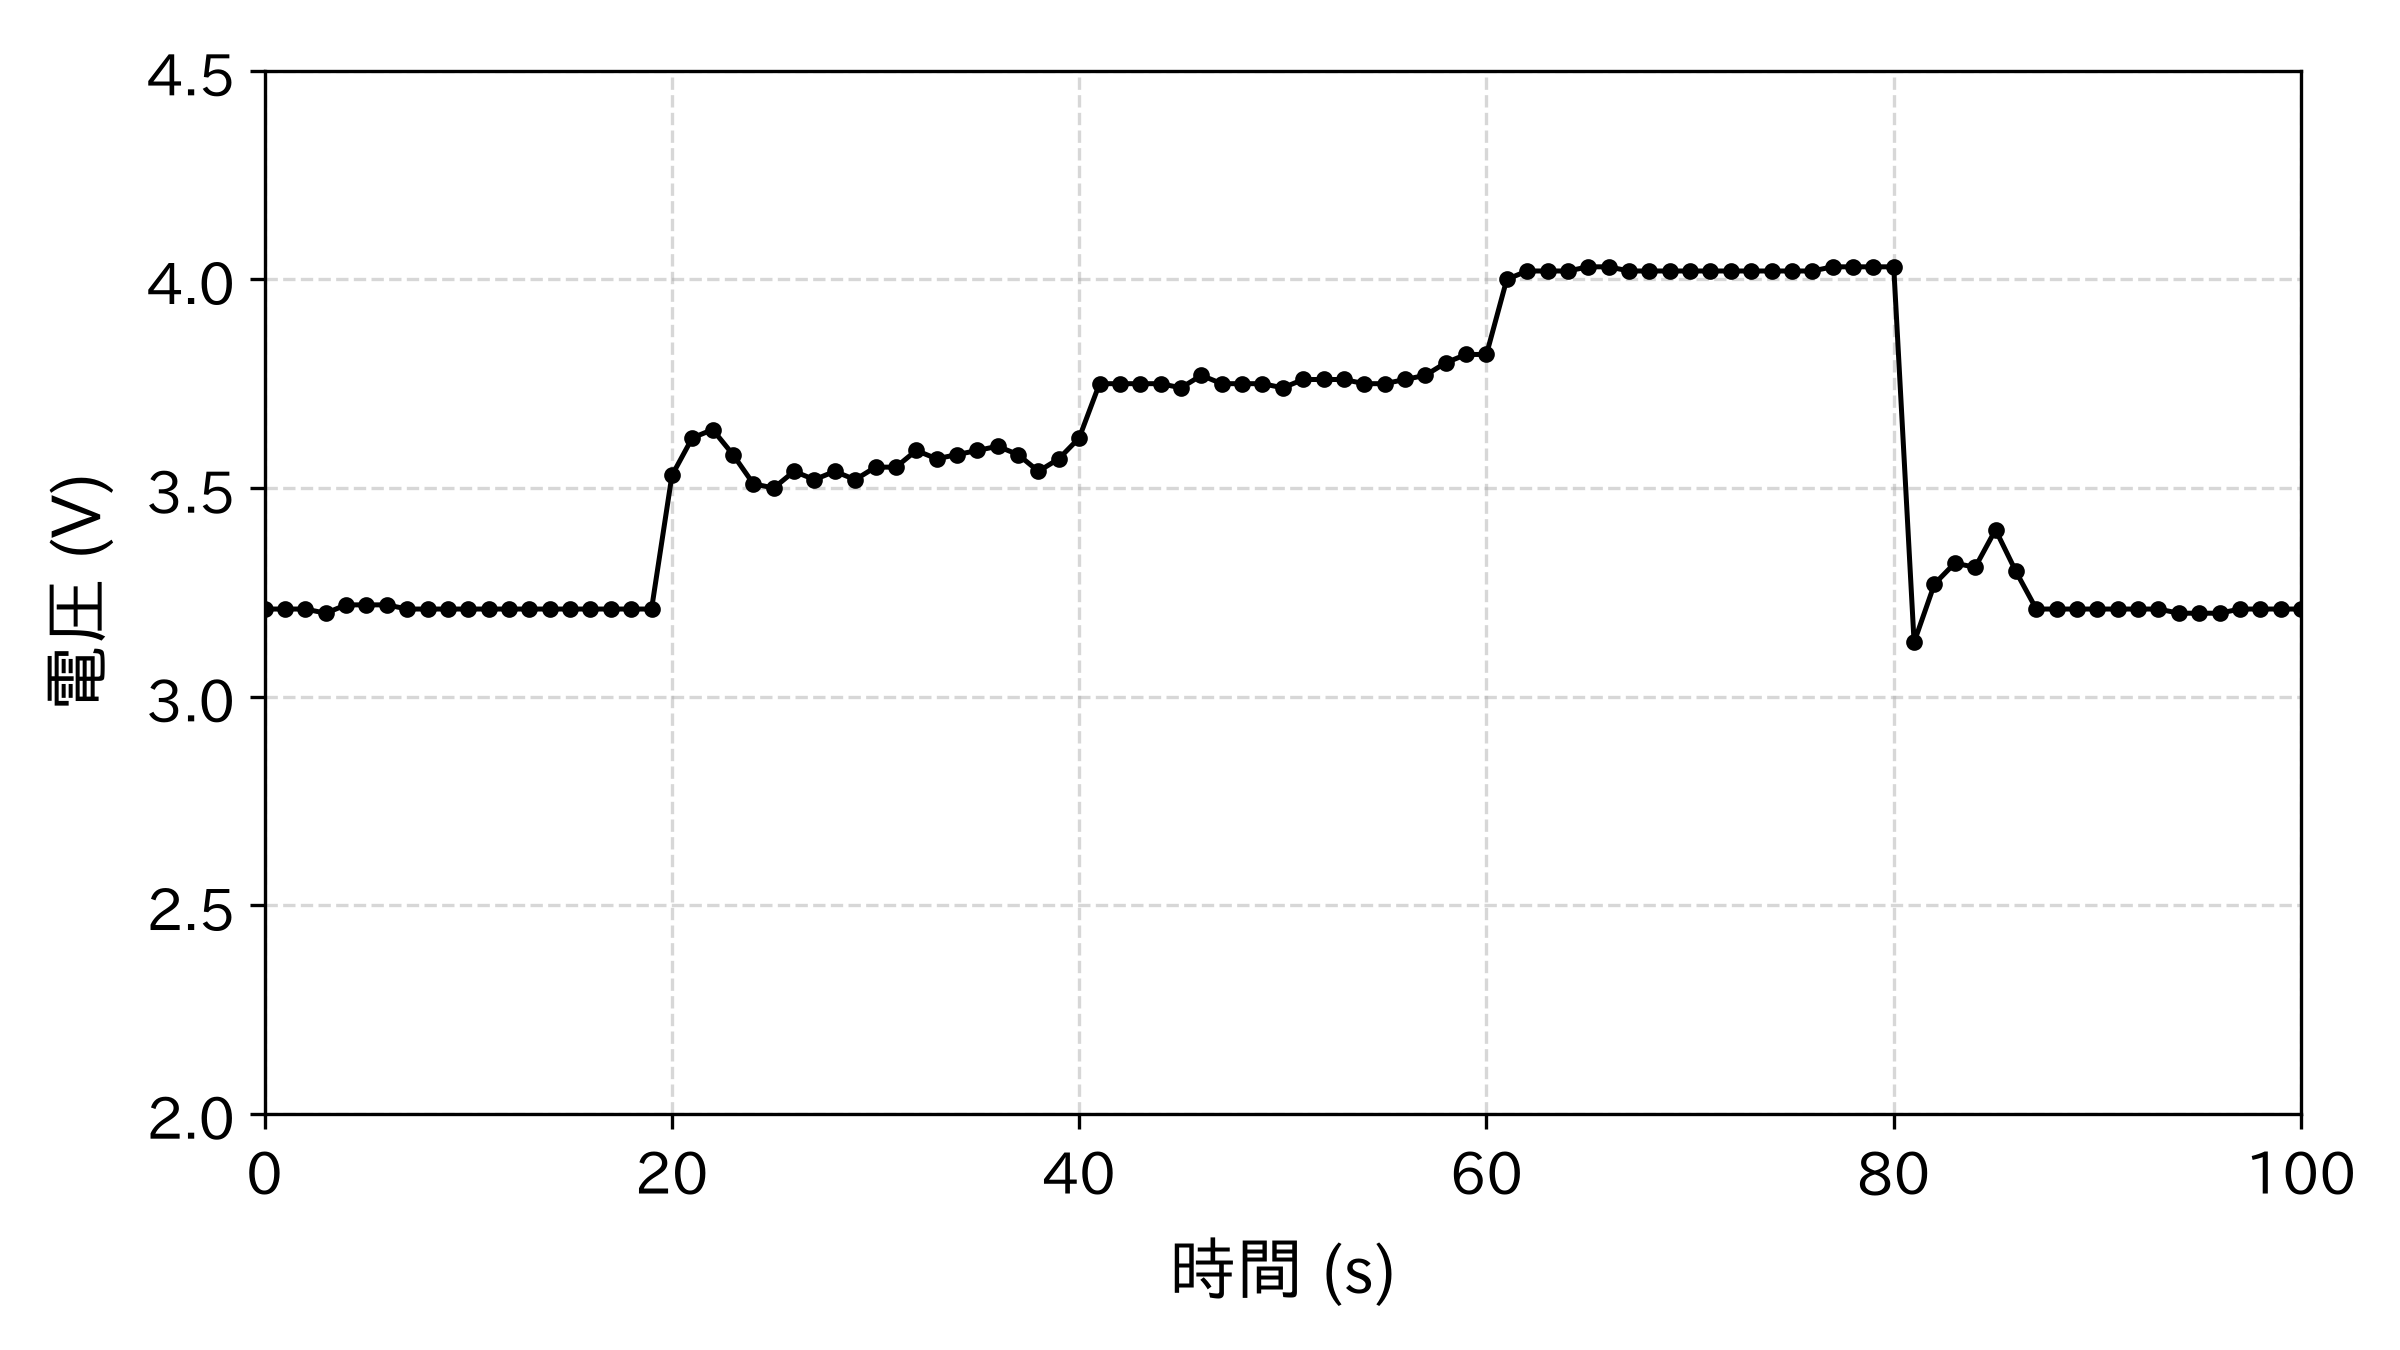
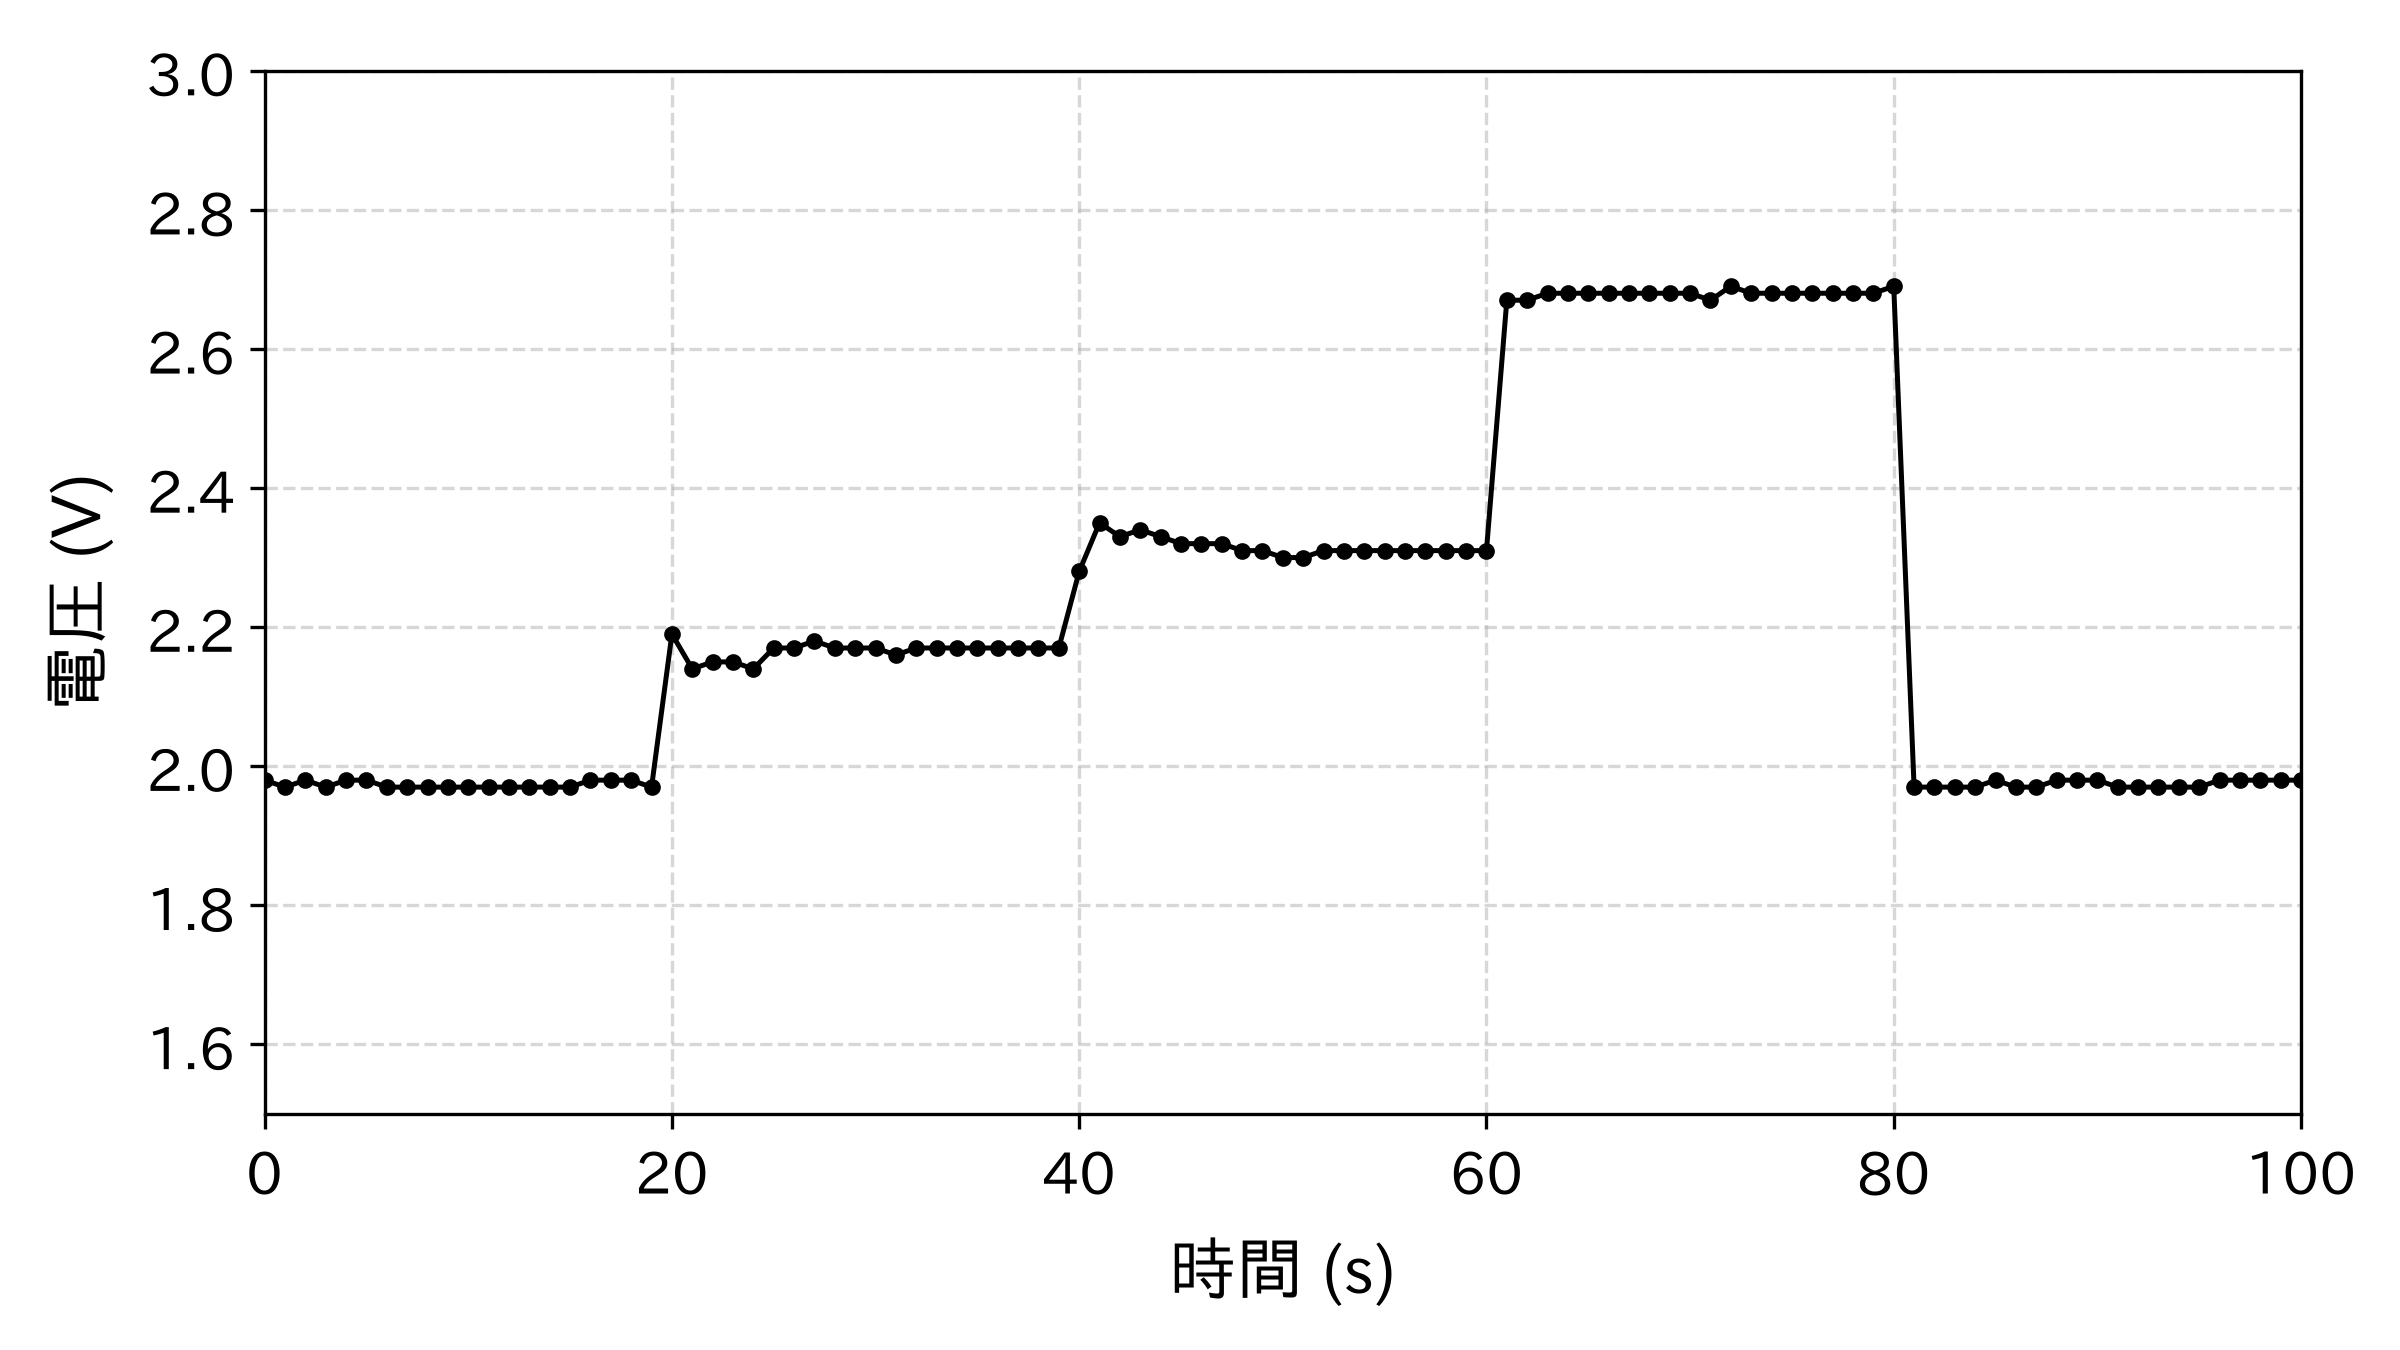
fix(workC): ワークC-2/C-3の電圧プロットy軸範囲を1.5〜3.0Vへ調整しグラフを再生成

diff --git a/work/workC/work_C.py b/work/workC/work_C.py
@@ -186,7 +186,7 @@ def _(Path, np, pd, plt):
         ax_c2.set_xlabel("時間 (s)", fontsize=16, labelpad=8)
         ax_c2.set_ylabel("電圧 (V)", fontsize=16, labelpad=8)
         ax_c2.set_xlim(0, 100)
-        ax_c2.set_ylim(2.0, 4.5)
+        ax_c2.set_ylim(1.5, 3.0)
         ax_c2.tick_params(labelsize=14)
         ax_c2.grid(True, linestyle="--", alpha=0.5)
         plt.tight_layout()
@@ -226,7 +226,7 @@ def _(Path, np, pd, plt):
         # 1段目: 生データ (Raw)
         ax1.plot(t_axis, v_raw, "ko-", markersize=3, linewidth=1, label="voltage")
         ax1.set_ylabel("電圧 (V)", fontsize=14)
-        ax1.set_ylim(2.0, 4.5)
+        ax1.set_ylim(1.5, 3.0)
         ax1.grid(True, linestyle="--", alpha=0.5)
         ax1.legend(loc="upper right", fontsize=12)
         ax1.tick_params(labelsize=12)
@@ -234,7 +234,7 @@ def _(Path, np, pd, plt):
         # 2段目: 移動平均 (MA)
         ax2.plot(t_axis, v_ma, "ro-", markersize=3, linewidth=1, label="voltage_MA")
         ax2.set_ylabel("電圧 (V)", fontsize=14)
-        ax2.set_ylim(2.0, 4.5)
+        ax2.set_ylim(1.5, 3.0)
         ax2.grid(True, linestyle="--", alpha=0.5)
         ax2.legend(loc="upper right", fontsize=12)
         ax2.tick_params(labelsize=12)
@@ -250,7 +250,7 @@ def _(Path, np, pd, plt):
         )
         ax3.set_xlabel("時間 (s)", fontsize=14, labelpad=8)
         ax3.set_ylabel("電圧 (V)", fontsize=14)
-        ax3.set_ylim(2.0, 4.5)
+        ax3.set_ylim(1.5, 3.0)
         ax3.set_xlim(0, 100)
         ax3.grid(True, linestyle="--", alpha=0.5)
         ax3.legend(loc="upper right", fontsize=12)
